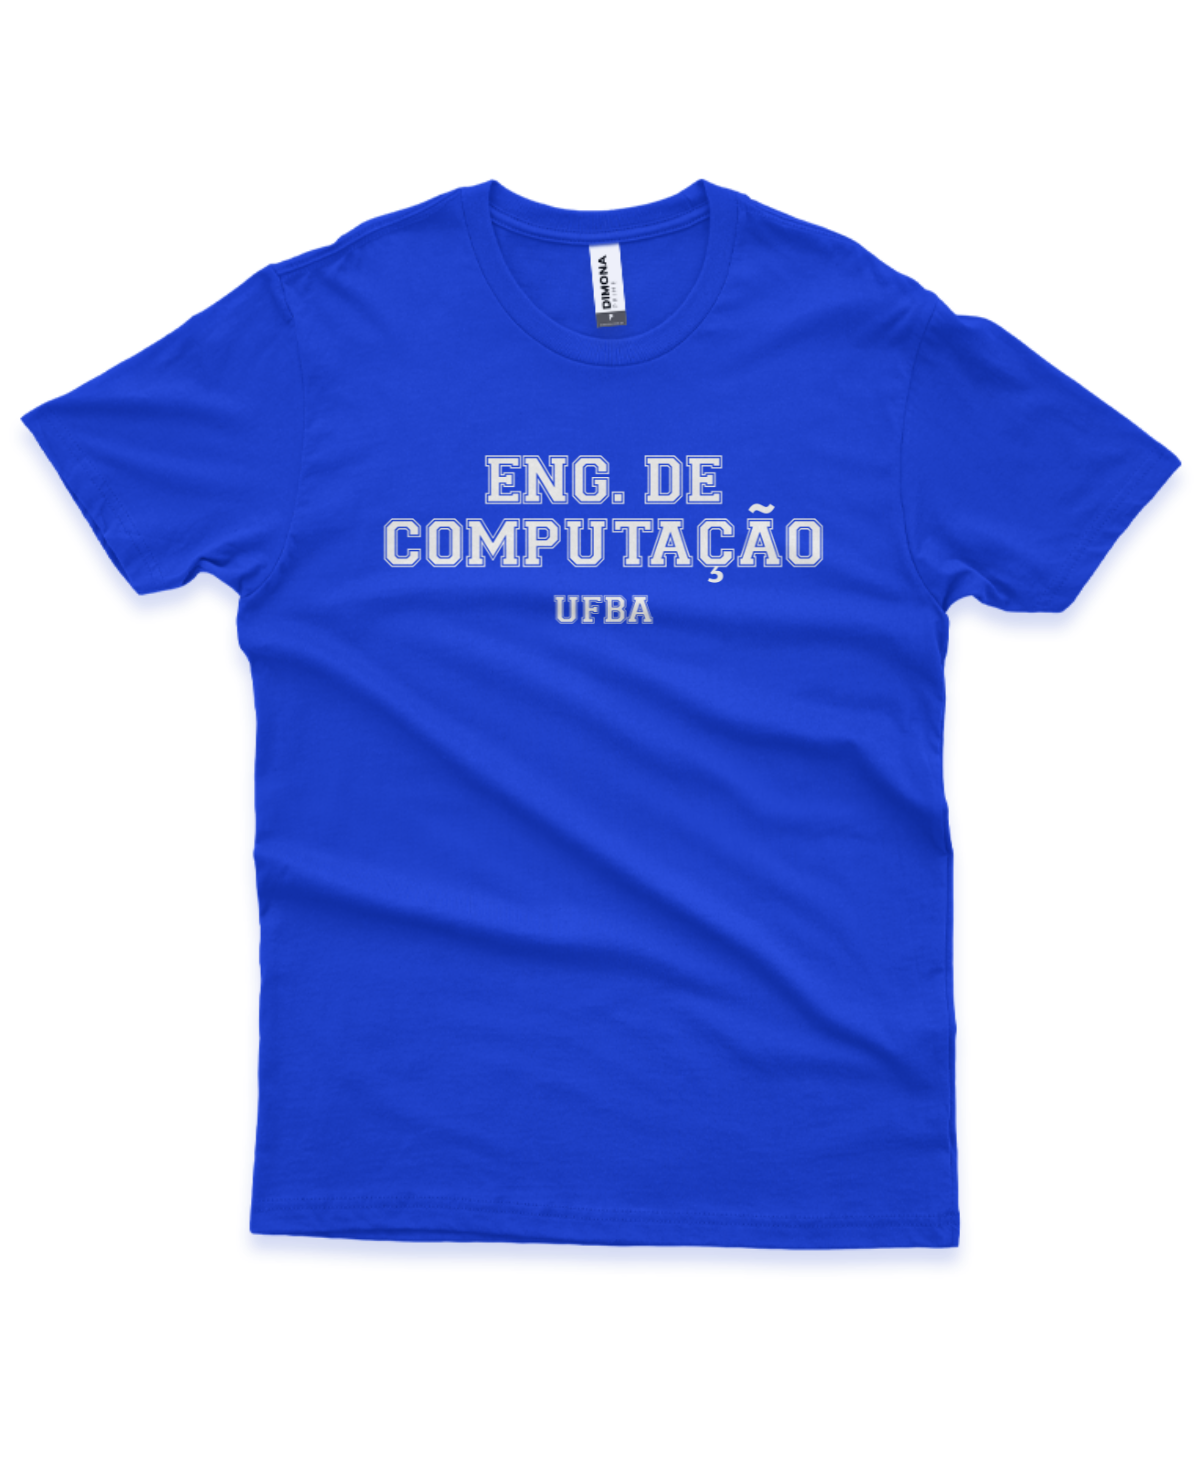
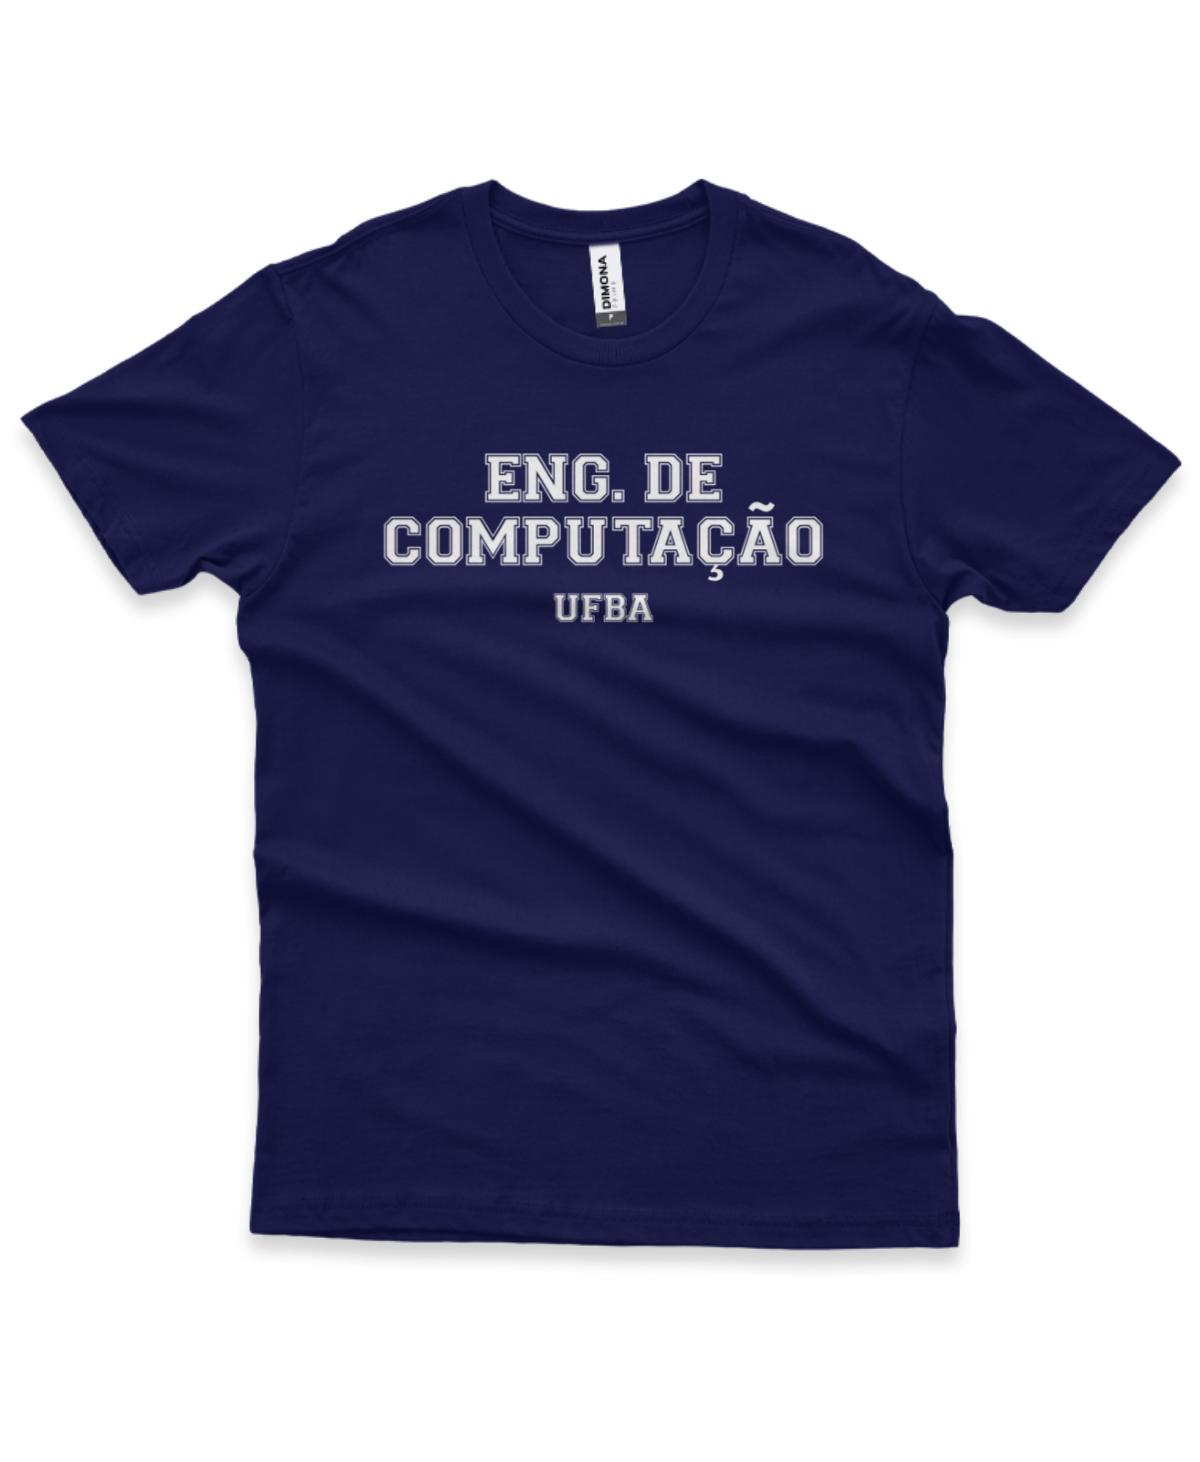
up

diff --git a/src/components/Shirts.tsx b/src/components/Shirts.tsx
@@ -9,11 +9,17 @@ import classica_branca from "../assets/classica/branca.png";
 import classica_verde from "../assets/classica/verde.png";
 import classica_azul from "../assets/classica/azul.png";
 import classica_vinho from "../assets/classica/vinho.png";
+import classica_vermelha from "../assets/classica/vermelha.png";
+import classica_azul_claro from "../assets/classica/azul_claro.png";
+import classica_cinza from "../assets/classica/cinza.png";
+
+
 import alternativa_preta from "../assets/alternativa/preta.png";
 import alternativa_branca from "../assets/alternativa/branca.png";
-import alternativa_verde from "../assets/alternativa/azul.png";
-import alternativa_azul from "../assets/alternativa/verde.png";
+import alternativa_verde from "../assets/alternativa/verde.png";
+import alternativa_azul from "../assets/alternativa/azul.png";
 import alternativa_vinho from "../assets/alternativa/vinho.png";
+
 import alternativa_preta_verso from "../assets/alternativa/preta_verso.png";
 import alternativa_branca_verso from "../assets/alternativa/branca_verso.png";
 import alternativa_verde_verso from "../assets/alternativa/verde_verso.png";
@@ -39,22 +45,6 @@ export const colors: Array<Color> = [
         verse: false,
     },
     {
-        color: "branca",
-        bg: "bg-white",
-        classica: classica_branca,
-        alternativa: alternativa_branca,
-        alternativaVerse: alternativa_branca_verso,
-        verse: false,
-    },
-    {
-        color: "vinho",
-        bg: "bg-red-600",
-        classica: classica_vinho,
-        alternativa: alternativa_vinho,
-        alternativaVerse: alternativa_vinho_verso,
-        verse: false,
-    },
-    {
         color: "verde",
         bg: "bg-green-600",
         classica: classica_verde,
@@ -63,11 +53,51 @@ export const colors: Array<Color> = [
         verse: false,
     },
     {
+        color: "vinho",
+        bg: "bg-red-900",
+        classica: classica_vinho,
+        alternativa: alternativa_vinho,
+        alternativaVerse: alternativa_vinho_verso,
+        verse: false,
+    },
+    {
+        color: "vermelha",
+        bg: "bg-red-600",
+        classica: classica_vermelha,
+        alternativa: alternativa_vinho,
+        alternativaVerse: alternativa_vinho_verso,
+        verse: false,
+    },
+    {
         color: "azul",
-        bg: "bg-blue-600",
+        bg: "bg-blue-900",
         classica: classica_azul,
         alternativa: alternativa_azul,
         alternativaVerse: alternativa_azul_verso,
+        verse: false,
+    },
+    {
+        color: "azul_claro",
+        bg: "bg-blue-400",
+        classica: classica_azul_claro,
+        alternativa: alternativa_azul,
+        alternativaVerse: alternativa_azul_verso,
+        verse: false,
+    },
+    {
+        color: "branca",
+        bg: "bg-white",
+        classica: classica_branca,
+        alternativa: alternativa_branca,
+        alternativaVerse: alternativa_branca_verso,
+        verse: false,
+    },
+    {
+        color: "cinza",
+        bg: "bg-zinc-400",
+        classica: classica_cinza,
+        alternativa: alternativa_branca,
+        alternativaVerse: alternativa_branca_verso,
         verse: false,
     },
 ];
@@ -100,7 +130,7 @@ export function Shirts({ customShirts, setCustomShirts, quantidade }: ShirtsProp
                         {
                         !customShirt.cor
                         ?
-                            <div className="bg-zinc-700 w-[17rem] h-full rounded-md flex items-center justify-center">
+                            <div className="bg-zinc-700 w-[15.5rem] h-full rounded-md flex items-center justify-center">
                                 <p className="text-white text-base w-3/4 text-center">Personalize para<br />pré-visualização...</p>
                             </div>
                         :

diff --git a/src/pages/Pay.tsx b/src/pages/Pay.tsx
@@ -37,7 +37,7 @@ export function Pay() {
             }
         });
         api.get("/requests/count").then(response => {
-            const frete = Math.round(((freteTotal / response.data) * 100) / 100);
+            const frete = freteTotal / response.data;
             setFrete(frete);
         });
     }, []);
@@ -96,8 +96,8 @@ export function Pay() {
                 </div>
                 <div className="flex max-w-[21rem] text-yellow-600">
                     <Info weight="fill" className="text-2xl" />
-                    <div className="flex flex-col text-justify ml-1 w-[12rem] -m-0.5">
-                        <p className="text-sm">Por conta de falta de aviso prévio, o valor do frete é opcional.</p>
+                    <div className="flex flex-col text-justify ml-1 w-[11rem] -m-0.5">
+                        <p className="text-xs">Por conta da falta de aviso prévio, o valor do frete é opcional.</p>
                     </div>
                 </div>
                 <div className="flex flex-col gap-2">

diff --git a/src/pages/Login.tsx b/src/pages/Login.tsx
@@ -32,7 +32,7 @@ export function Login() {
             </Link>
             <form className="flex flex-col justify-center h-full gap-5">
                 <Input
-                    placeholder="Sua Matrícula"
+                    placeholder="Matrícula ou WhatsApp (só números)"
                     value={matricula}
                     onChange={e => setMatricula(e.target.value)}
                 />

diff --git a/src/pages/Home.tsx b/src/pages/Home.tsx
@@ -141,7 +141,7 @@ export function Home() {
                                 </div>
                             }
                             {
-                                (countSolic && countSolic >= 60) &&
+                                (countSolic && countSolic >= 30) &&
                                 (
                                     !paid.paid
                                     ?
